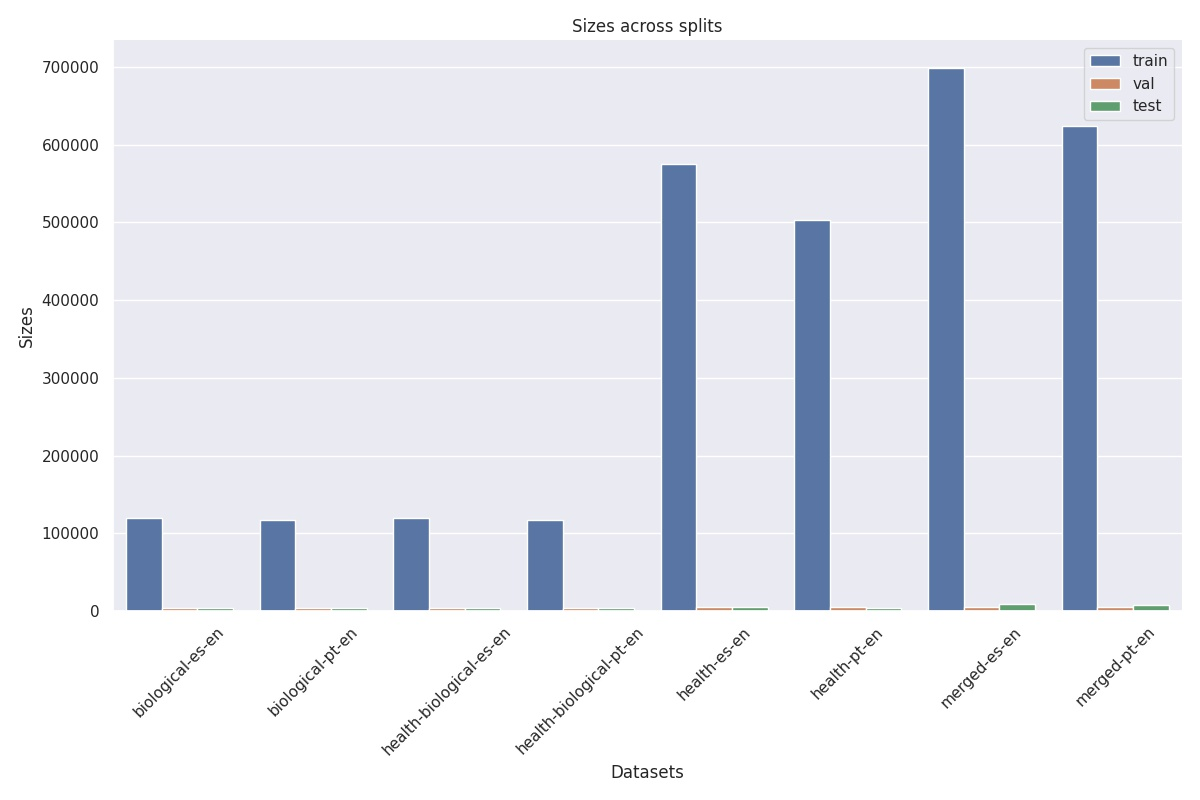
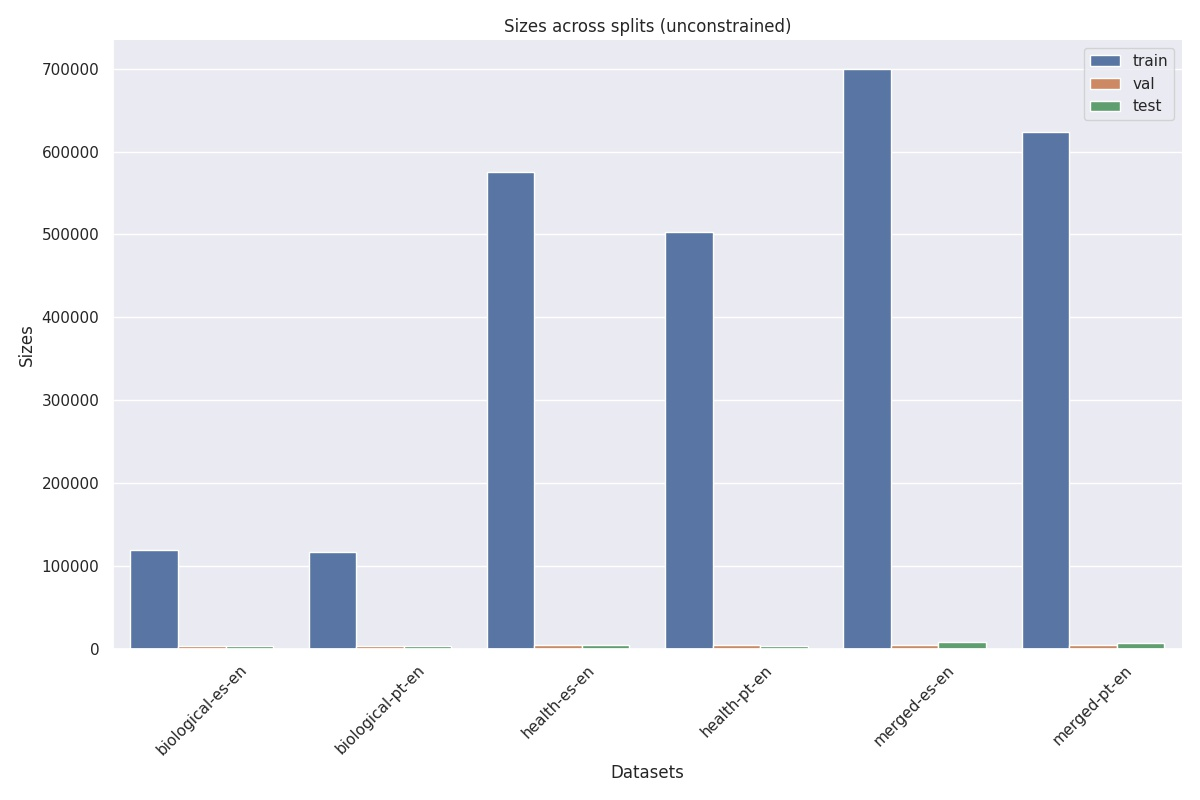
Update stuff

diff --git a/paper1/code/preprocess/1_clean.py b/paper1/code/preprocess/1_clean.py
@@ -1,11 +1,12 @@
 import os
 import pandas as pd
 from pathlib import Path
-
+import numpy as np
 from paper1.code import utils
 
 
 TRAIN = True
+SUFFLE = True
 CONSTRAINED = True
 
 if TRAIN:
@@ -61,11 +62,20 @@ for fname in RAW_FILES:
     total_old = len(df)
     df = utils.preprocess_dataset(df, src_col=SRC_LANG, trg_col=TRG_LANG)
 
+    # Shuffle dataset
+    if SUFFLE:
+        np.random.seed(123)
+        np.random.shuffle(df.values)
+
     if CONSTRAINED and TRAIN:
         if domain == "health" and "es" in {SRC_LANG, TRG_LANG}:
-            df = df[:123597]
+            max_size = 123597
+            print(f"Limiting size to {max_size}")
+            df = df[:max_size]
         elif domain == "health" and "pt" in {SRC_LANG, TRG_LANG}:
-            df = df[:120301]
+            max_size = 120301
+            print(f"Limiting size to {max_size}")
+            df = df[:max_size]
 
     # Stats
     total_doctypes = df['doctype'].value_counts()

diff --git a/paper1/code/graphs/0_dataset_lengths.py b/paper1/code/graphs/0_dataset_lengths.py
@@ -5,8 +5,8 @@ import matplotlib.pyplot as plt
 import seaborn as sns
 sns.set()
 
[1 lines of base64/hex data omitted]
-FOLDER_NAME = "constrained"
+BASE_PATH = "/home/salvacarrion/Documents/Programming/Datasets/Scielo/fairseq-unconstrained/"
+FOLDER_NAME = "unconstrained"
 
 DATASETS = [
     "scielo_biological_es_en",

diff --git a/paper1/code/preprocess/2_merge.py b/paper1/code/preprocess/2_merge.py
@@ -1,7 +1,7 @@
 import os
 import pandas as pd
 
-TRAIN = False
+TRAIN = True
 if TRAIN:
     DATA_PATH = SAVEPATH = "/home/salvacarrion/Documents/Programming/Datasets/Scielo/cleaned-constrained/scielo-gma"
     RAW_FILES = [("es-en-gma-biological.csv", "es-en-gma-health.csv"),

diff --git a/paper1/code/fairseq/4_train.py b/paper1/code/fairseq/4_train.py
@@ -38,4 +38,4 @@ def train_finetune():
 
 
 if __name__ == "__main__":
-    train_finetune()
+    train()
